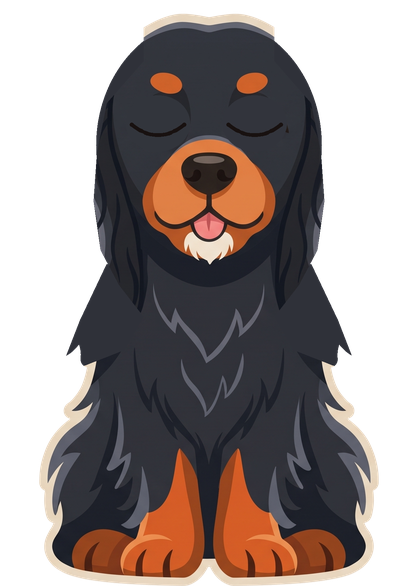
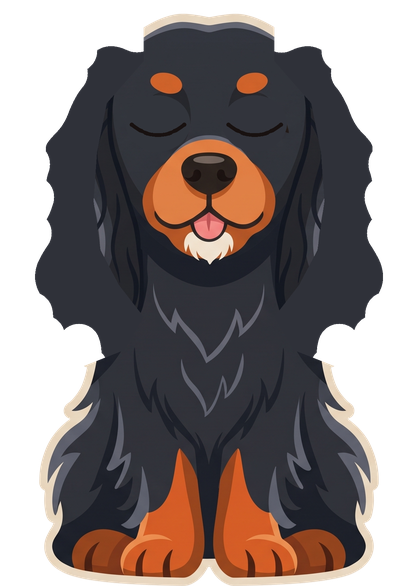
Orejas de Blitzen sin rendija y capas para la web
- Bajo las orejas de Blitzen hay pelo en todo el perro salvo una franja junto al borde: al balancearse ya no se abre una rendija entre la oreja y el cuello.
- tools/web_dogs.py exporta a kreix-web las capas de los perros despiertos (con la cola de Black) sobre un mismo lienzo, para animarlas con CSS.

Changed region(s): [[0.6531, 0.0614, 0.933, 0.6451], [0.0622, 0.0614, 0.3421, 0.6451]]

diff --git a/tools/web_dogs.py b/tools/web_dogs.py
@@ -1,0 +1,74 @@
+"""Exporta a la web (repositorio kreix-web) las capas de Blitzen y Black despiertos, para animarlos con CSS en el tema claro.
+
+Uso:  python tools/web_dogs.py RUTA/kreix-web/assets/perretes
+Salida: una imagen WebP por capa, todas del mismo tamano y sobre el mismo lienzo (la ilustracion basePerretes, de x=130 a 2330
+y de y=60 a 1790, al 35 %): se apilan en la web sin recolocarlas y cada parte gira desde su punto (ver PIVOTS).
+"""
+from __future__ import annotations
+
+import os
+import sys
+from pathlib import Path
+
+os.environ.setdefault("QT_QPA_PLATFORM", "offscreen")
+ROOT = Path(__file__).resolve().parent.parent
+sys.path.insert(0, str(ROOT))
+
+from PySide6.QtCore import Qt  # noqa: E402
+from PySide6.QtGui import QImage, QPainter  # noqa: E402
+from PySide6.QtWidgets import QApplication  # noqa: E402
+
+from ui.widgets import dogs  # noqa: E402
+
+CANVAS = (130, 60, 2330, 1790)          # x0, y0, x1, y1 en la ilustracion
+SCALE = dogs.STORE
+# (archivo de la web, capa de la app, perro)
+LAYERS = (
+    ("blitzen", "blitzen", dogs.BLITZEN),
+    ("blitzen-ojos", "blitzen-dormido", dogs.BLITZEN),
+    ("blitzen-lengua", "blitzen-lengua", dogs.BLITZEN),
+    ("blitzen-oreja-izq", "blitzen-oreja-izq", dogs.BLITZEN),
+    ("blitzen-oreja-der", "blitzen-oreja-der", dogs.BLITZEN),
+    ("black", "black", dogs.BLACK),
+    ("black-ojos", "black-dormido", dogs.BLACK),
+    ("black-oreja-izq", "black-oreja-izq", dogs.BLACK),
+    ("black-oreja-der", "black-oreja-der", dogs.BLACK),
+)
+
+
+def blank() -> QImage:
+    w, h = round((CANVAS[2] - CANVAS[0]) * SCALE), round((CANVAS[3] - CANVAS[1]) * SCALE)
+    image = QImage(w, h, QImage.Format.Format_ARGB32_Premultiplied)
+    image.fill(Qt.GlobalColor.transparent)
+    return image
+
+
+def main() -> None:
+    out = Path(sys.argv[1])
+    out.mkdir(parents=True, exist_ok=True)
+    app = QApplication(sys.argv[:1])  # noqa: F841
+    for name, layer, dog in LAYERS:
+        image = blank()
+        p = QPainter(image)
+        p.drawImage(round((dog.origin[0] - CANVAS[0]) * SCALE), round((dog.origin[1] - CANVAS[1]) * SCALE), dogs._layer(layer, SCALE))
+        p.end()
+        image.save(str(out / f"{name}.webp"), "webp", 90)
+    tail = blank()                                           # la cola de Black, en reposo (la web la menea desde su nacimiento)
+    p = QPainter(tail)
+    p.setRenderHint(QPainter.RenderHint.Antialiasing)
+    p.scale(SCALE, SCALE)
+    p.translate(-CANVAS[0], -CANVAS[1])
+    dogs._paint_tail(p, dogs.BLACK.tail, 0.0)
+    p.end()
+    tail.save(str(out / "black-cola.webp"), "webp", 90)
+
+    w, h = CANVAS[2] - CANVAS[0], CANVAS[3] - CANVAS[1]
+    print(f"lienzo {tail.width()} x {tail.height()}")
+    for label, (x, y) in (("blitzen oreja izq", dogs.BLITZEN.ears[0].pivot), ("blitzen oreja der", dogs.BLITZEN.ears[1].pivot),
+                          ("blitzen lengua", dogs.BLITZEN.tongue), ("black oreja izq", dogs.BLACK.ears[0].pivot),
+                          ("black oreja der", dogs.BLACK.ears[1].pivot), ("black cola", dogs.BLACK.tail.anchor)):
+        print(f"{label}: transform-origin {100 * (x - CANVAS[0]) / w:.2f}% {100 * (y - CANVAS[1]) / h:.2f}%")
+
+
+if __name__ == "__main__":
+    main()

diff --git a/tools/build_dogs.py b/tools/build_dogs.py
@@ -34,7 +34,7 @@ EYES = {
     "black": [(1652, 870, 68, 60), (1945, 867, 68, 60)],
 }
 BLITZEN_AXIS = 762          # el eje de simetria de la cara de Blitzen
-BLITZEN_FACE = (762, 500, 322, 365)          # elipse de la cara (centro y radios)
+UNDER_EAR_MARGIN = 60      # bajo las orejas de Blitzen hay pelo en todo el perro salvo esta franja junto al borde: al girar no se abre rendija
 _BLITZEN_LEFT_EAR = [(575, 120), (420, 130), (300, 170), (200, 240), (140, 380), (100, 560), (60, 700), (70, 860), (100, 980),
                      (150, 1080), (250, 1150), (380, 1140), (520, 1085), (575, 990), (505, 900), (452, 800), (432, 660),
                      (442, 520), (470, 380), (575, 260)]
@@ -42,7 +42,6 @@ BLITZEN_EARS = {
     "izq": _BLITZEN_LEFT_EAR,
     "der": [(2 * BLITZEN_AXIS - x, y) for x, y in _BLITZEN_LEFT_EAR],
 }
-BLITZEN_SHOULDERS = [(470, 840), (1054, 840), (1130, 1000), (1200, 1180), (1250, 1420), (274, 1420), (324, 1180), (394, 1000)]   # el cuerpo bajo las orejas
 BLITZEN_TONGUE = (700, 690, 825, 795)        # la caja de la lengua
 BLACK_HEAD = (1798, 900, 262, 268)            # elipse de la cabeza de Black (centro y radios)
 BLACK_EARS = {
@@ -173,8 +172,7 @@ def main() -> None:
     box = crop_box(blitzen_mask)
     full = cutout(rgb, blitzen_mask).astype(np.uint8)
     asleep_full = close_eyes(full, rgb, EYES["blitzen"])
-    face = ellipse(shape, *BLITZEN_FACE)
-    under = blitzen_mask & (face | polygon(shape, BLITZEN_SHOULDERS))
+    under = ndi.distance_transform_edt(blitzen_mask) > UNDER_EAR_MARGIN   # todo el perro salvo la franja del borde exterior
     fur = ring_color(rgb, 762, 980, 90, 60)
     tongue_box = np.zeros(shape[:2], bool)
     x0, y0, x1, y1 = BLITZEN_TONGUE
